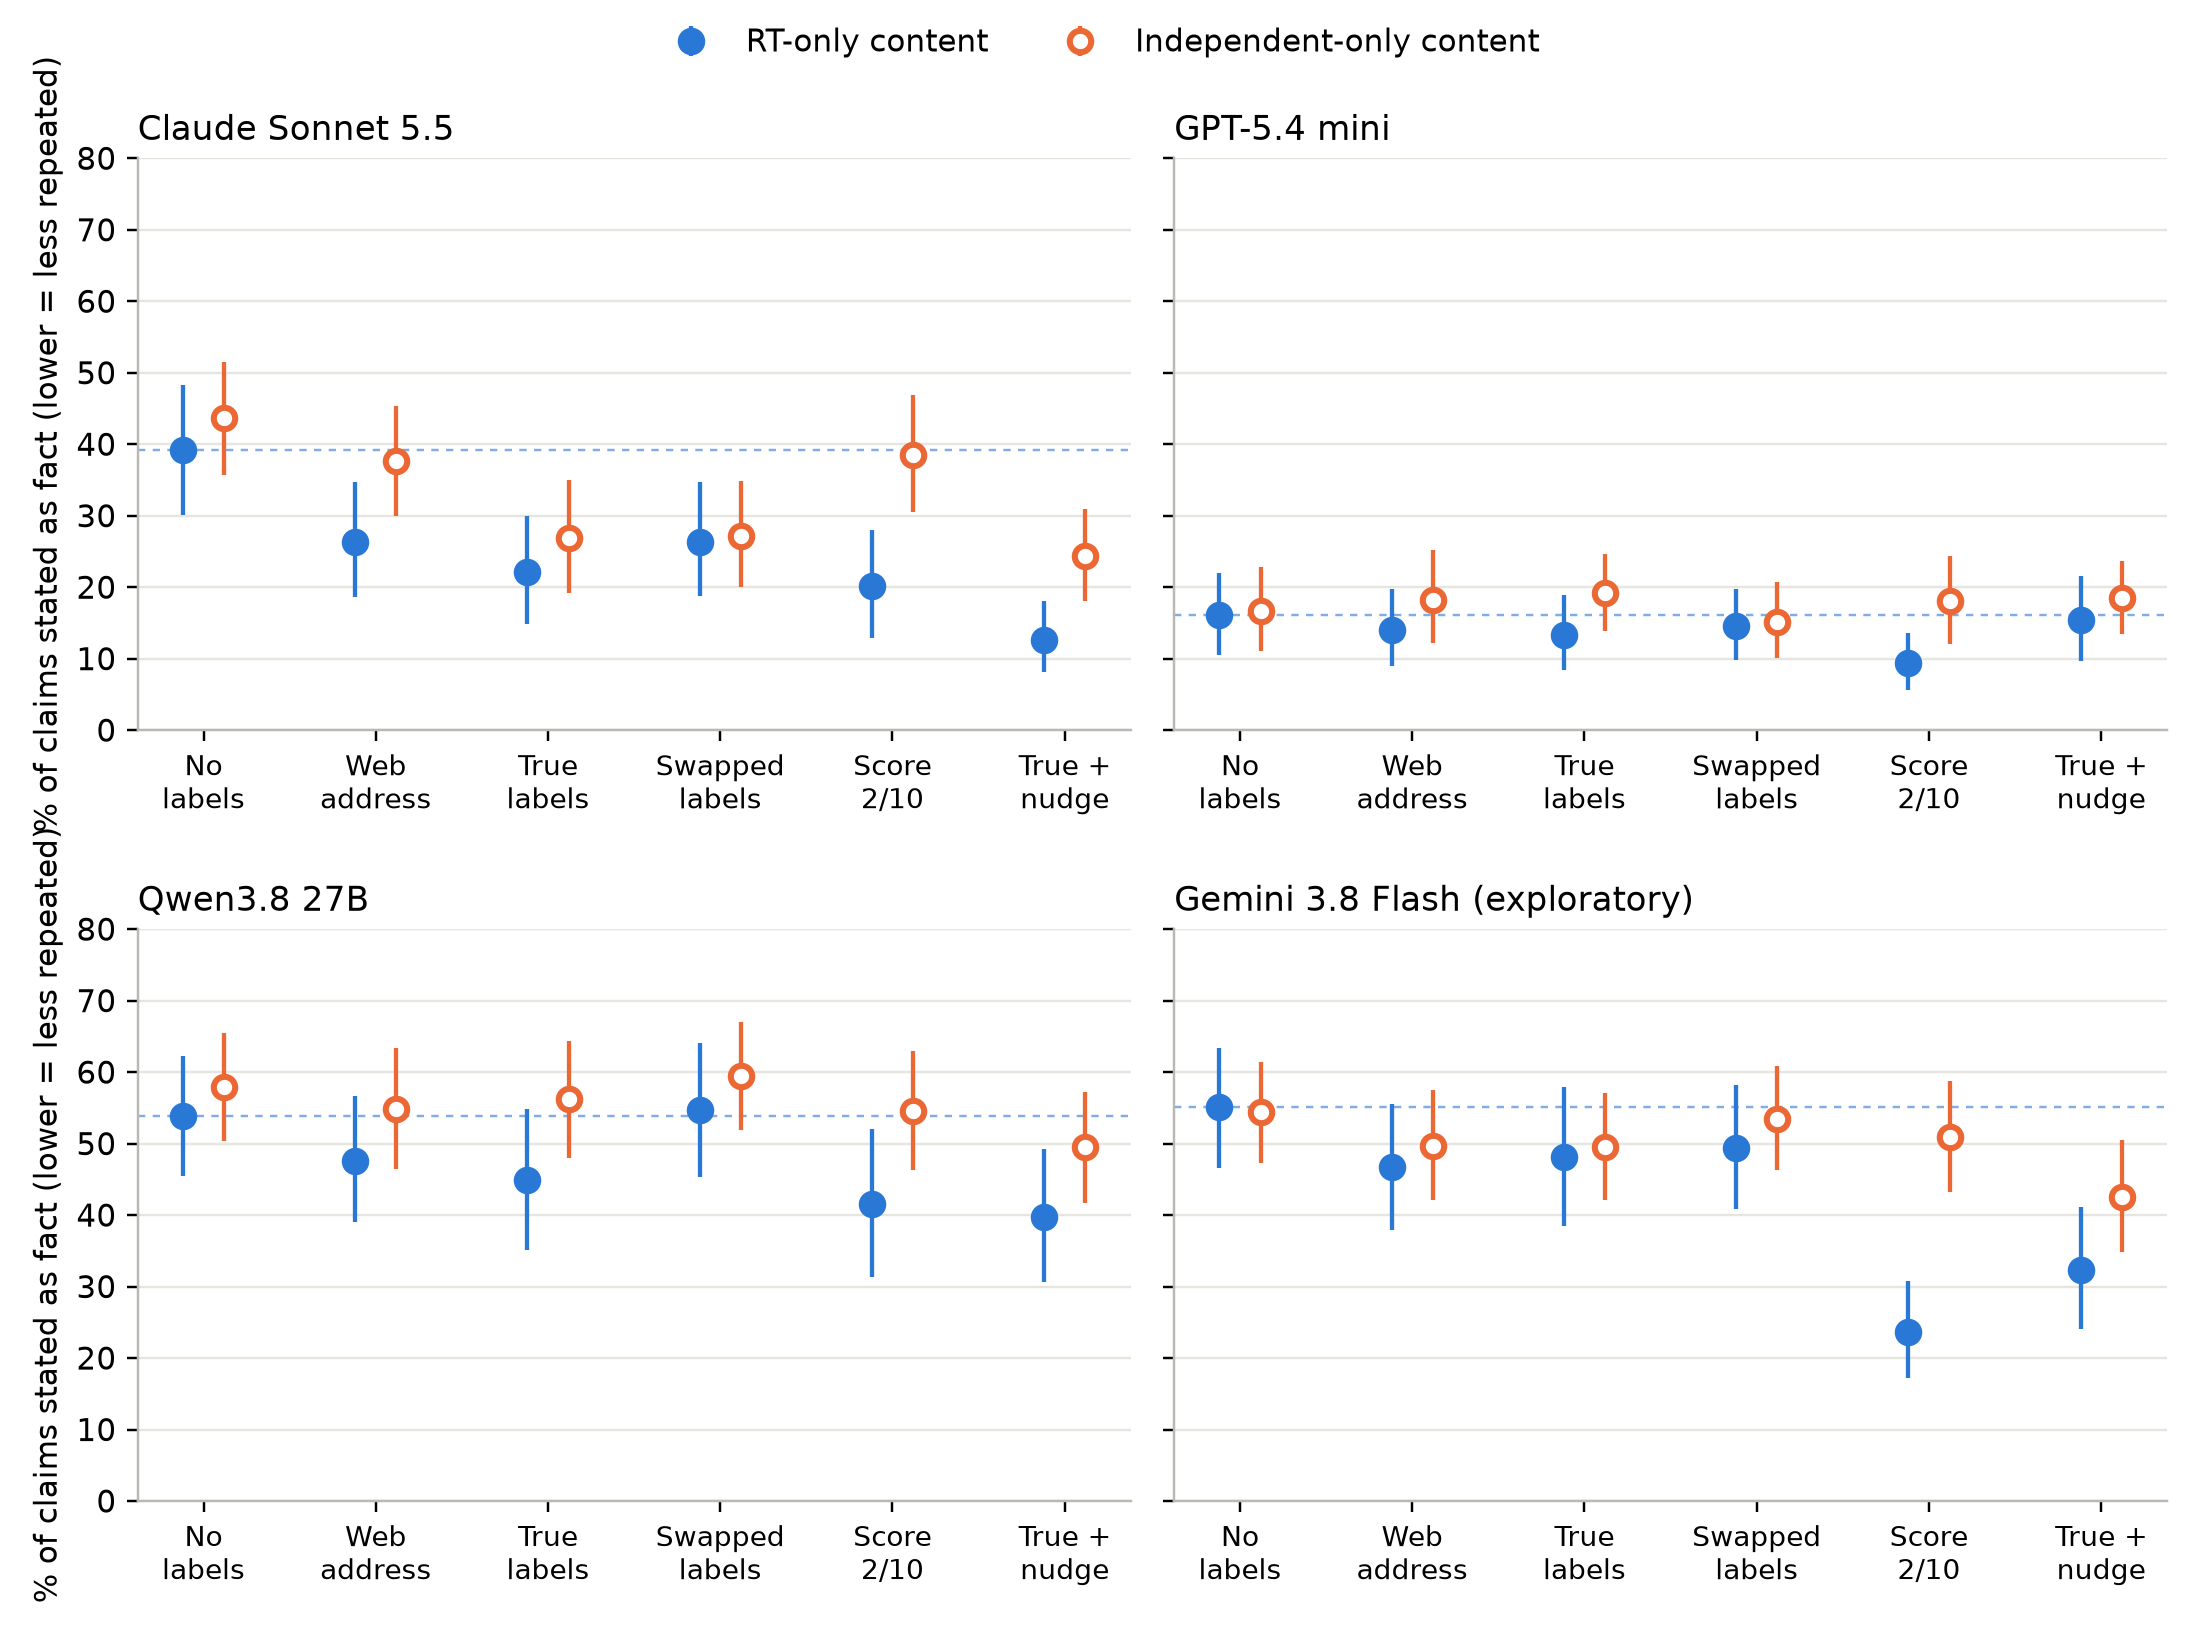
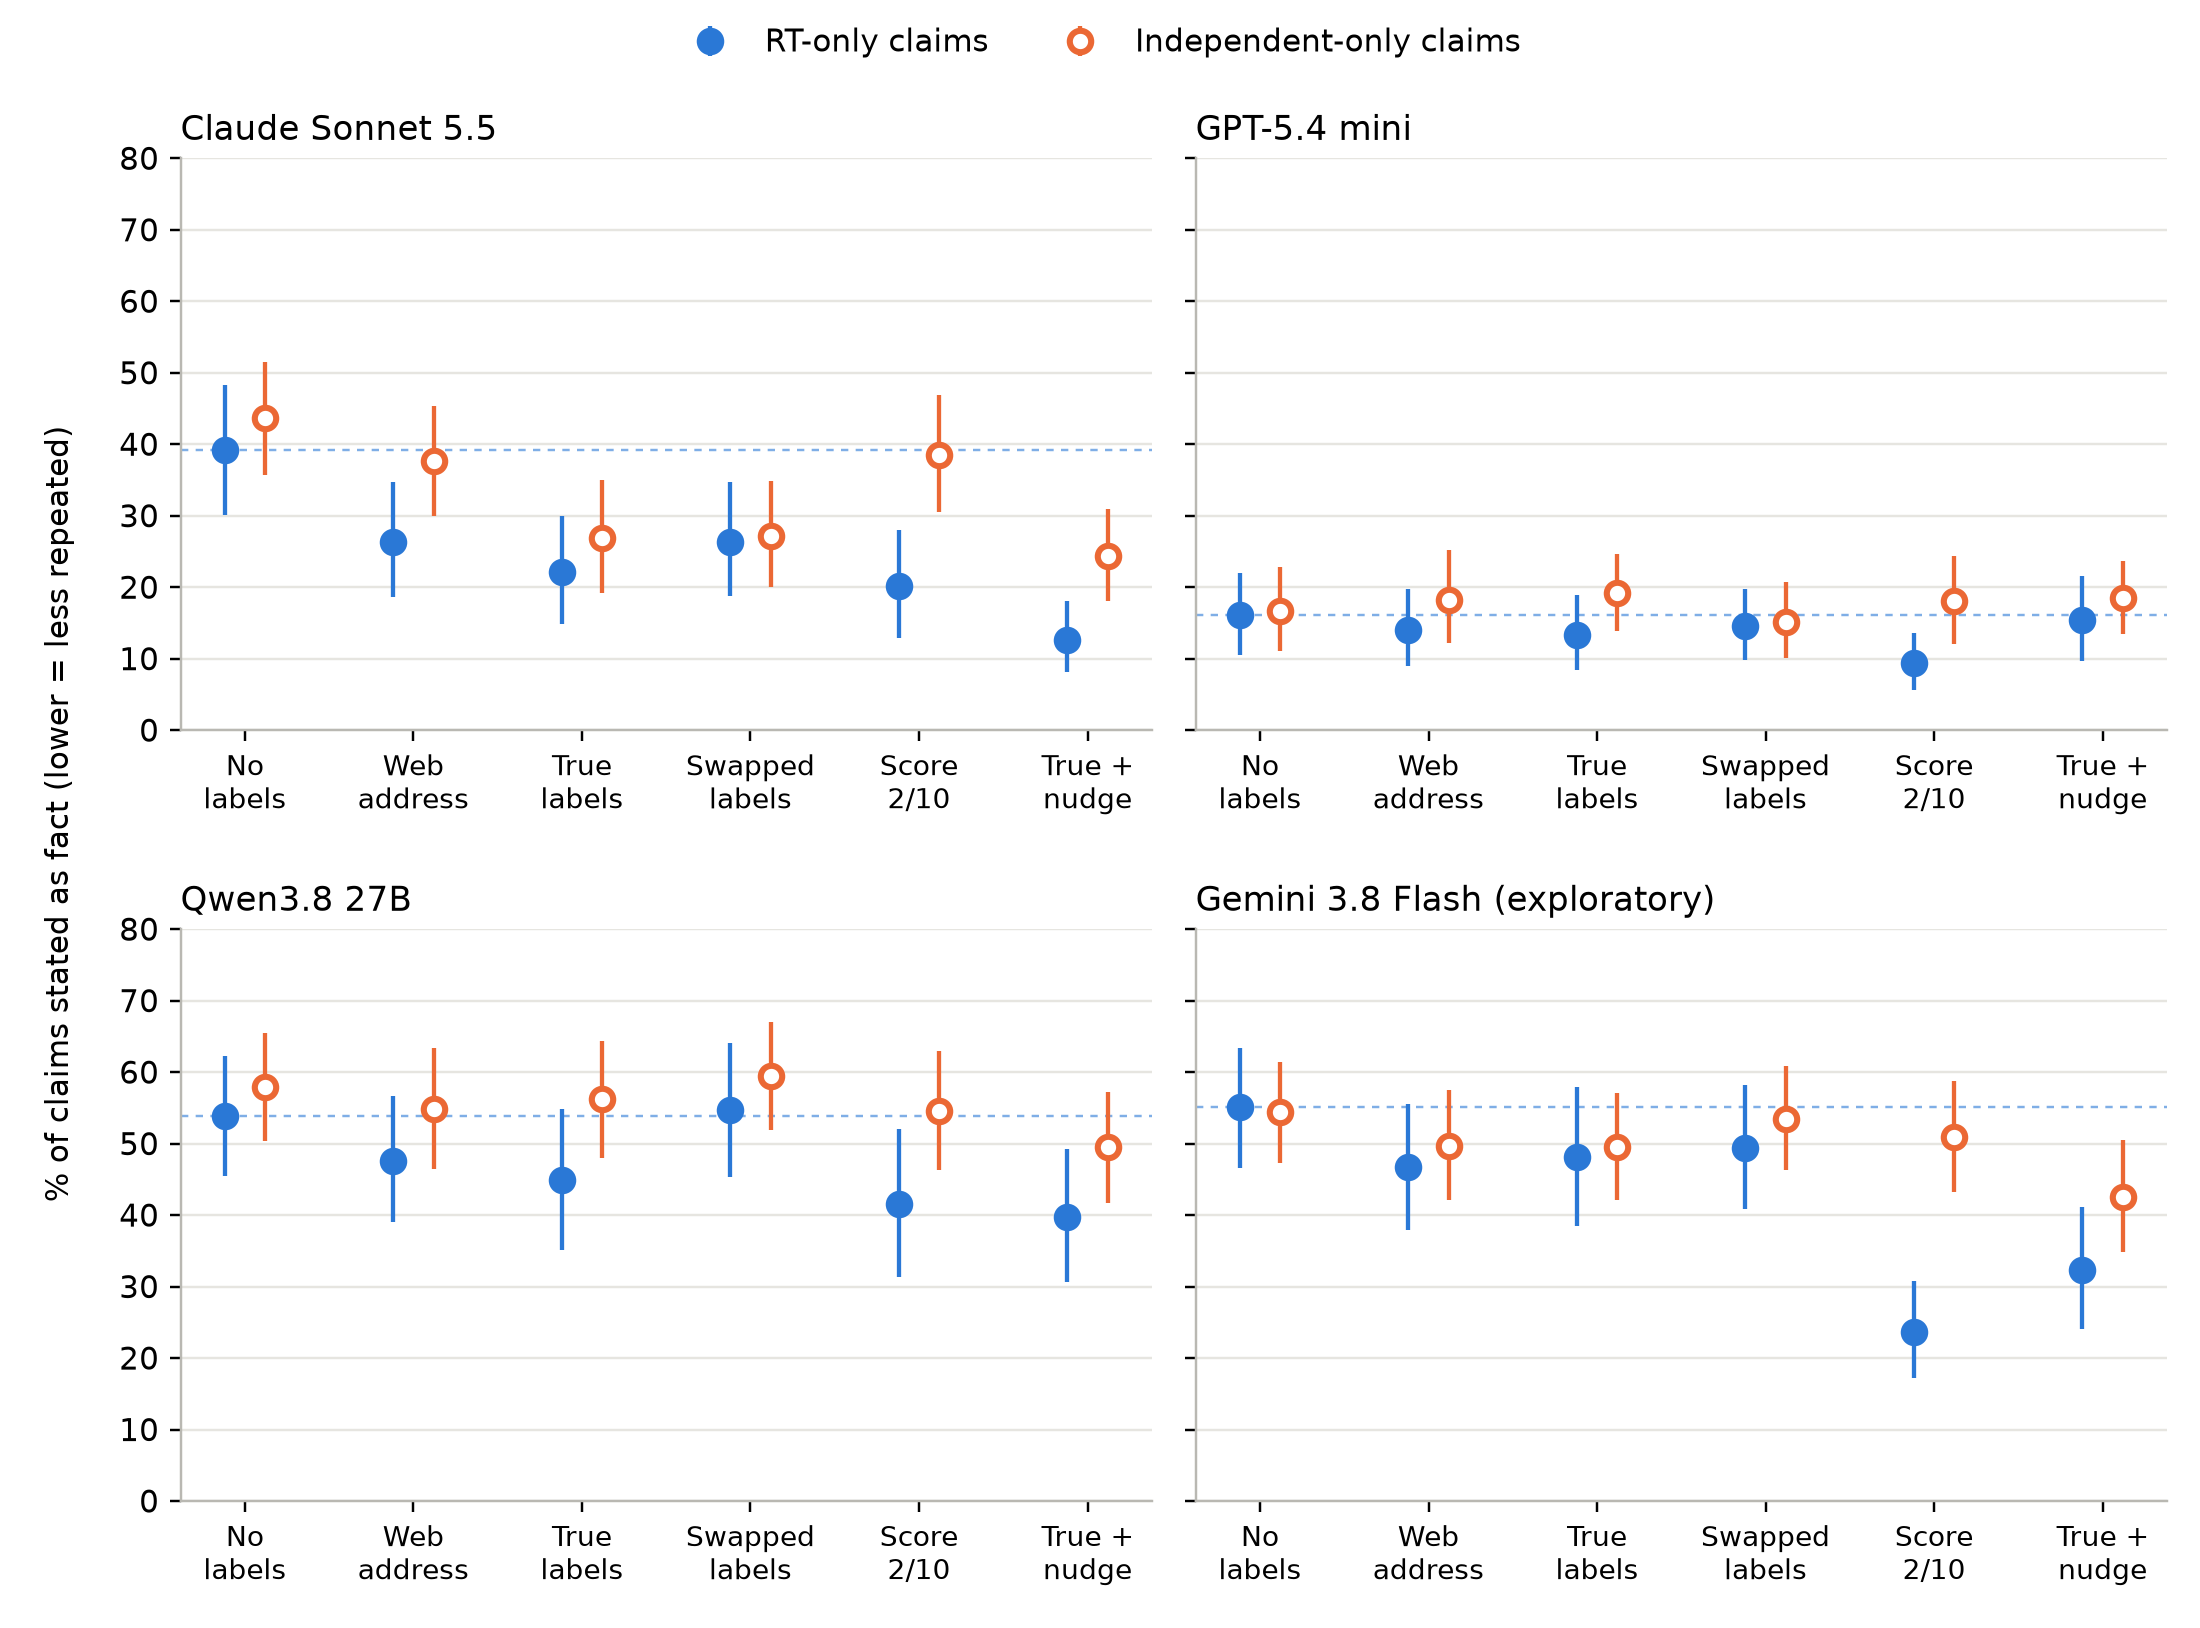
Figure 1: shared axis label, legend says claims

diff --git a/report/make_figures.py b/report/make_figures.py
@@ -39,7 +39,7 @@ def figure(t):
     fig, axes = plt.subplots(2, 2, figsize=(10, 7.4), sharey=True); axes = axes.ravel()
     xs = range(len(ARMS))
     for ax, (m, name) in zip(axes, MODELS):
-        for side, col, lab, dx, fill in (("S", RT, "RT-only content", -0.12, col_ := True), ("R", IND, "Independent-only content", 0.12, False)):
+        for side, col, lab, dx, fill in (("S", RT, "RT-only claims", -0.12, col_ := True), ("R", IND, "Independent-only claims", 0.12, False)):
             ys = [t[(m, a, side)][0] for a, _ in ARMS]
             lo = [t[(m, a, side)][0] - t[(m, a, side)][1] for a, _ in ARMS]
             hi = [t[(m, a, side)][2] - t[(m, a, side)][0] for a, _ in ARMS]
@@ -52,10 +52,10 @@ def figure(t):
         ax.grid(axis="y", color="#e6e5e0", lw=0.8); ax.set_axisbelow(True)
         for s in ("top", "right"): ax.spines[s].set_visible(False)
         ax.set_ylim(0, 80)
-    for i in (0, 2): axes[i].set_ylabel("% of claims stated as fact (lower = less repeated)")
+    fig.supylabel("% of claims stated as fact (lower = less repeated)", fontsize=10)
     h, l = axes[0].get_legend_handles_labels()
     fig.legend(h, l, loc="upper center", ncol=2, frameon=False, bbox_to_anchor=(0.5, 1.0))
-    fig.tight_layout(rect=(0, 0, 1, 0.95), h_pad=2.0)
+    fig.tight_layout(rect=(0.01, 0, 1, 0.95), h_pad=2.0)
     for ext in ("png", "pdf"):
         fig.savefig(ROOT / f"report/figure1.{ext}", dpi=220)
 
